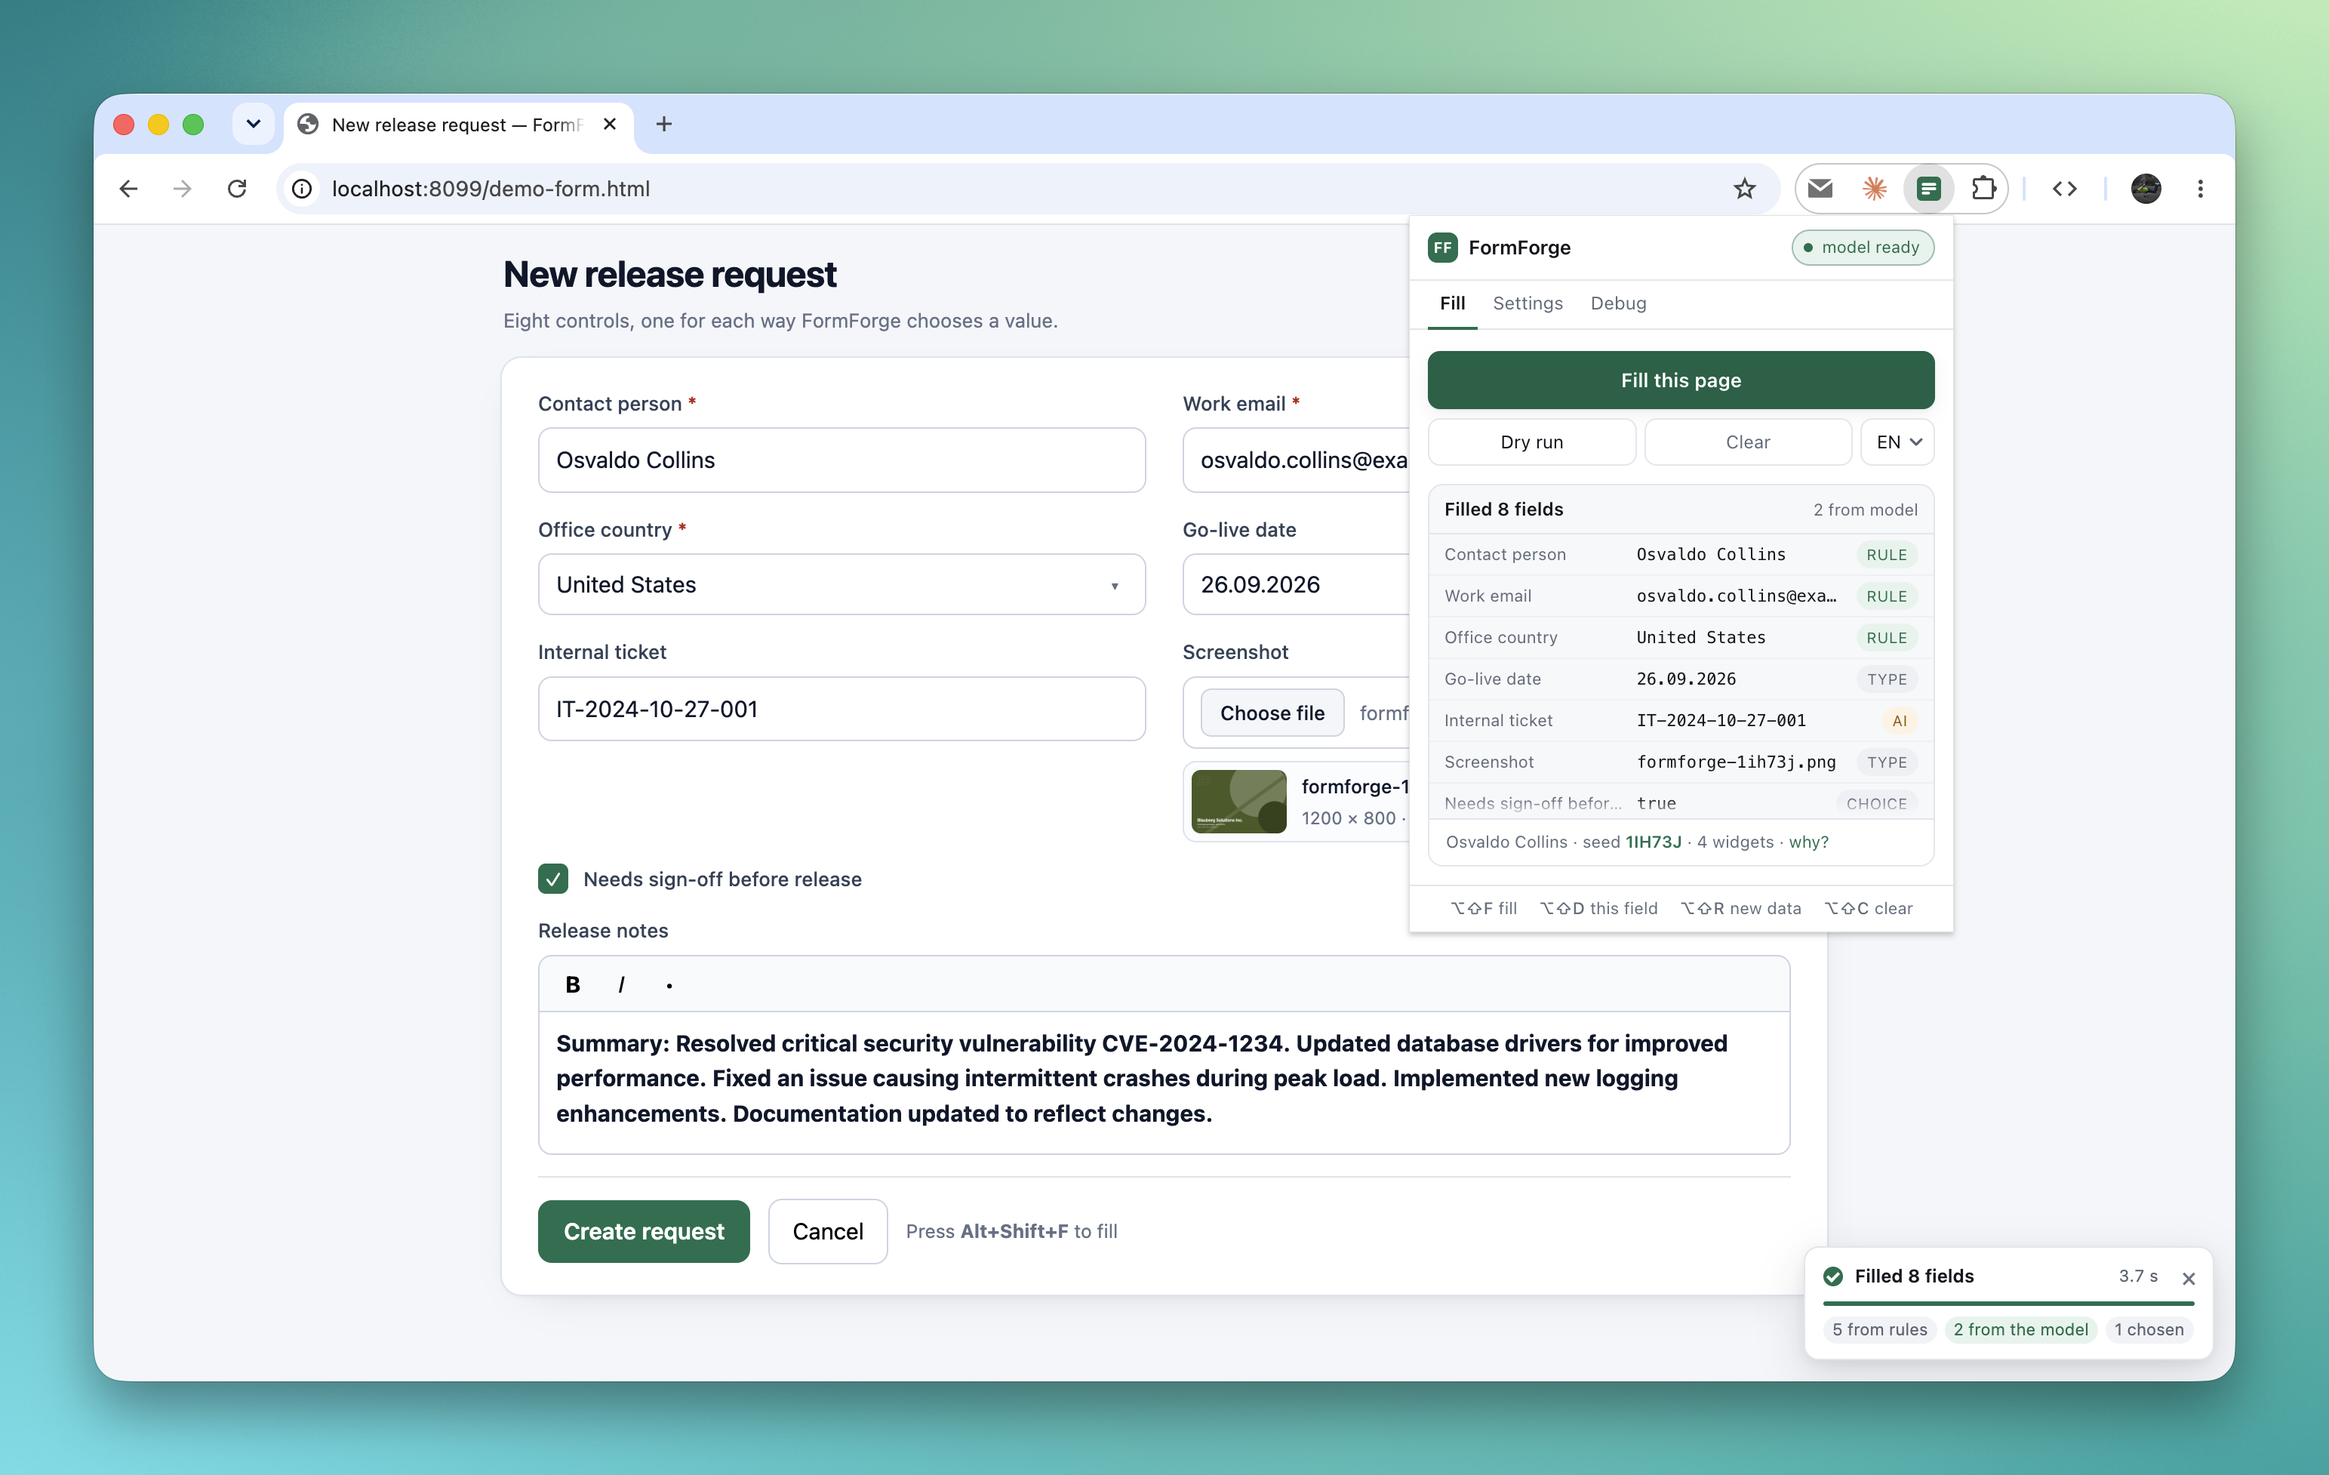
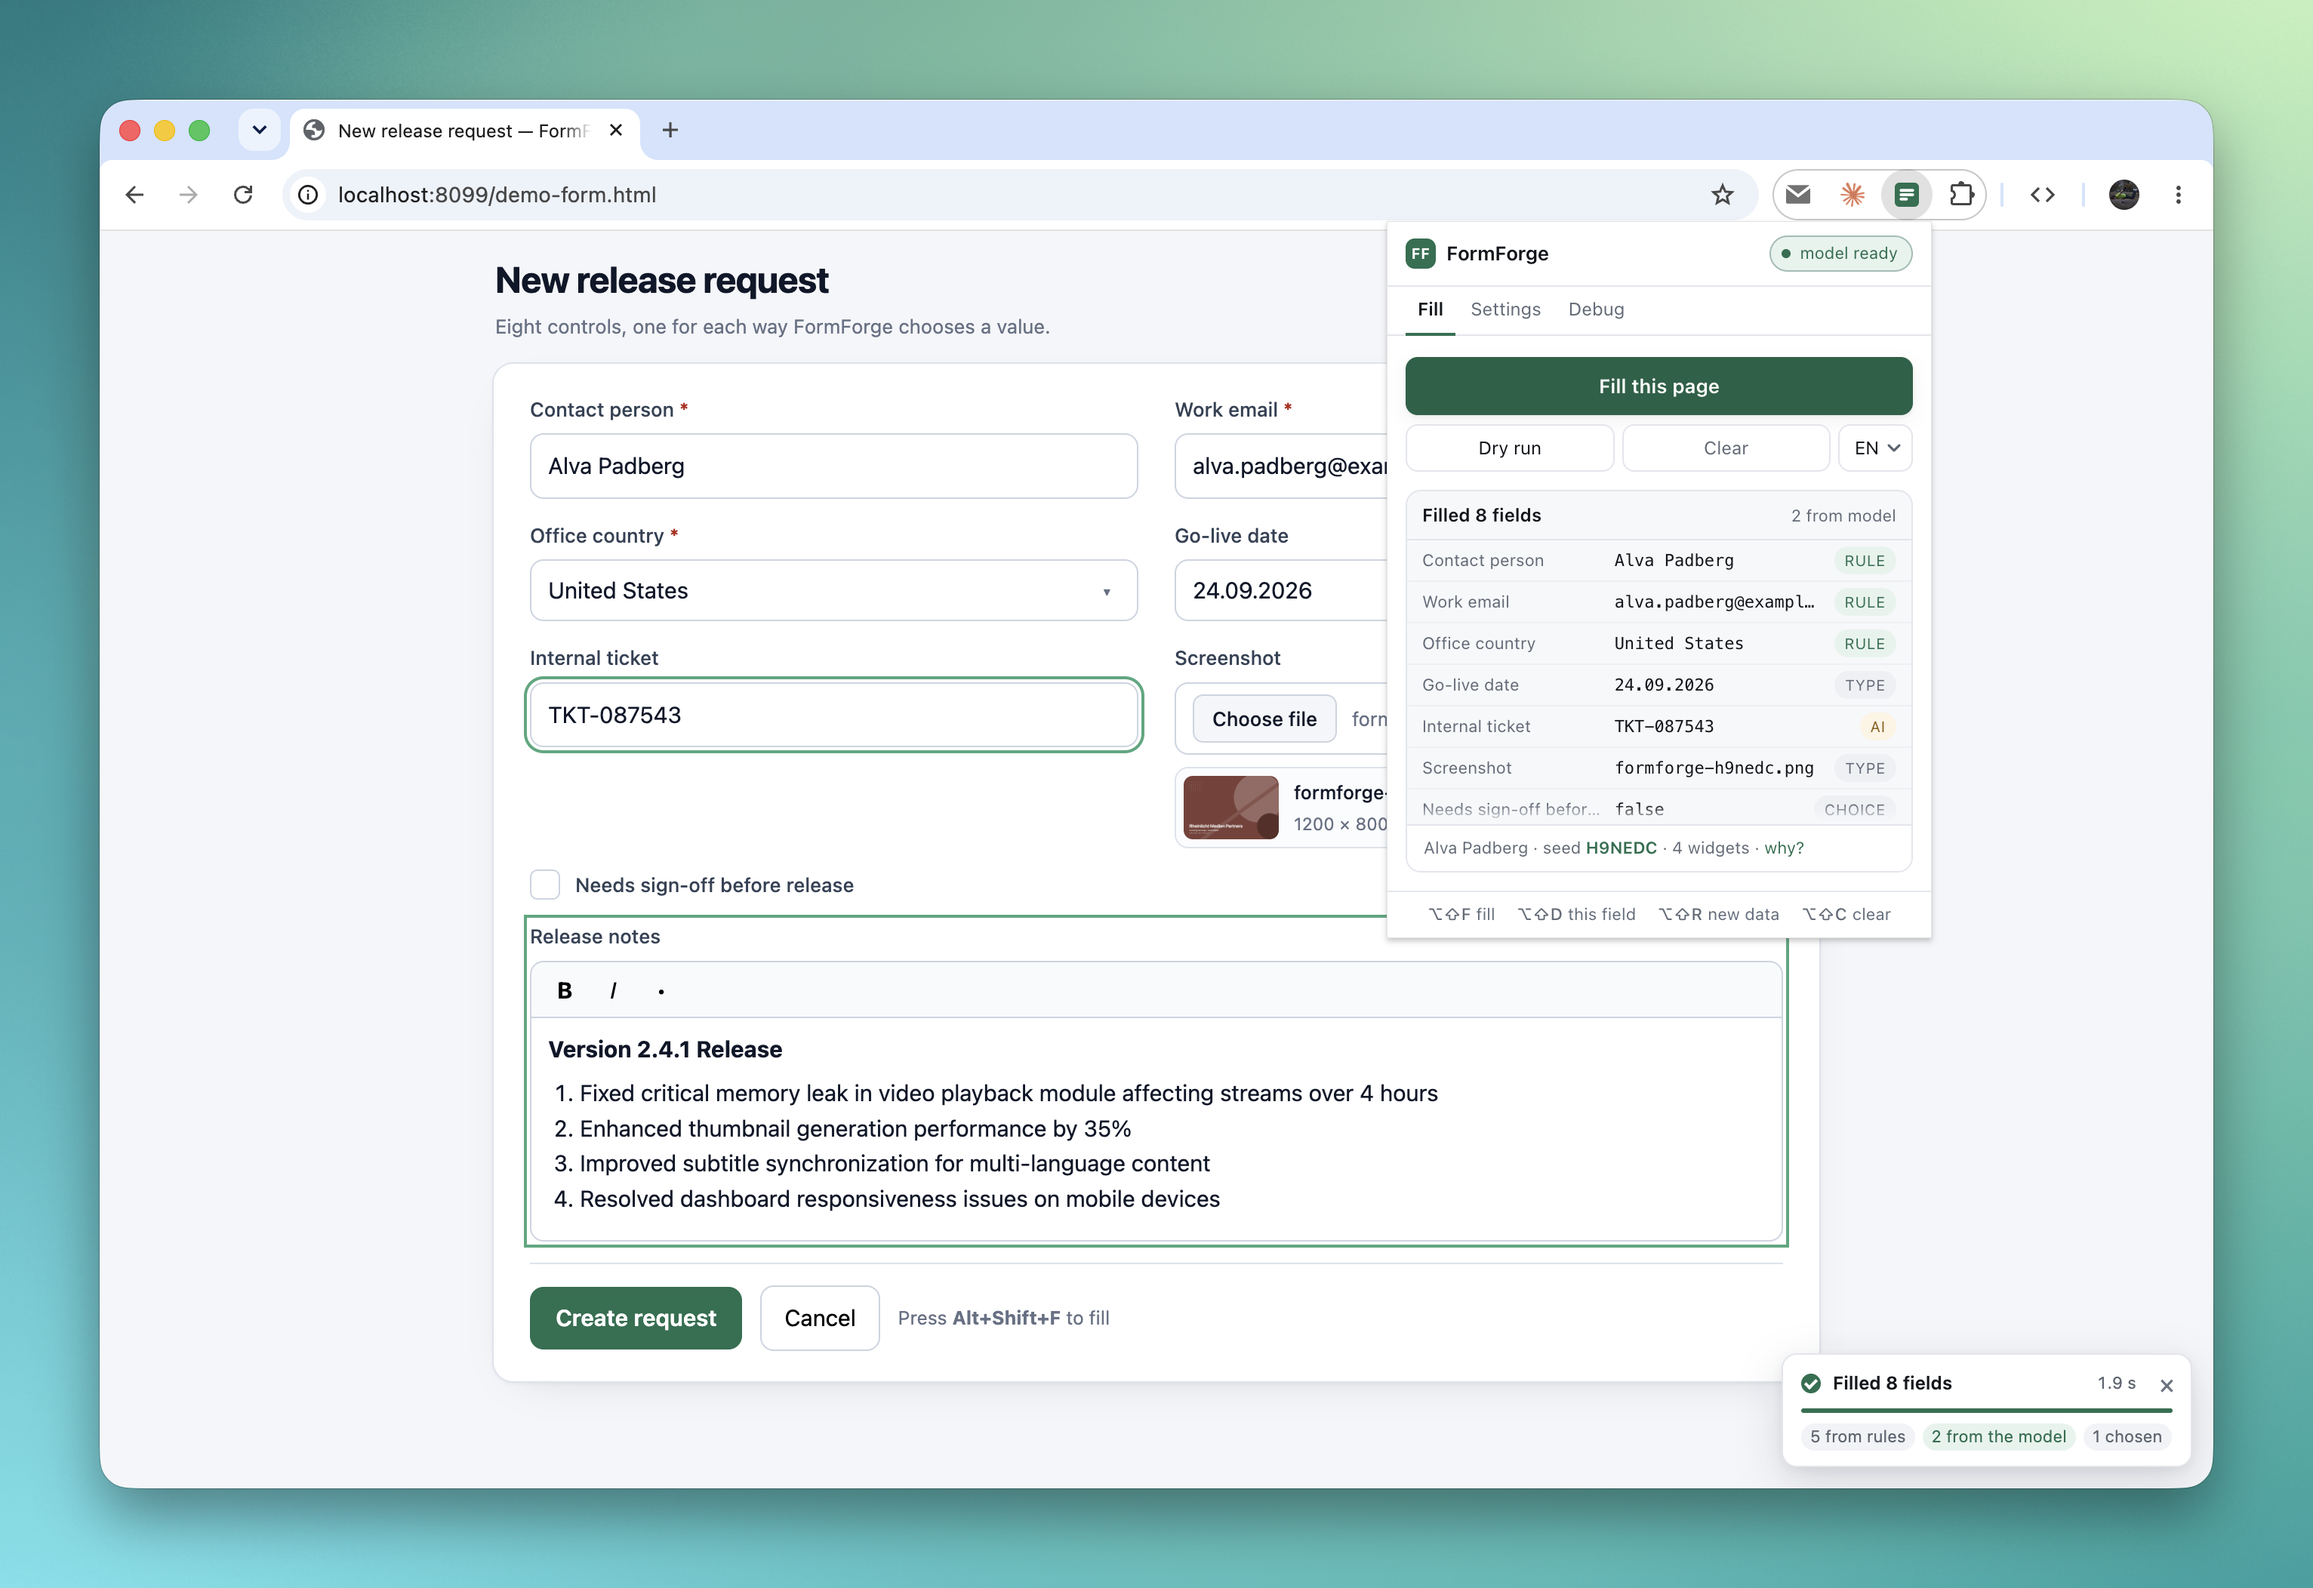
The model's words, the editor's formatting
A rich-text field is on a form so that a tester can see what its editor does
with bold, italic and a list. The model answers it in prose, so the answer
was replacing the one control whose markup was the point of it.

Now its sentences go into the shape the rule builds — a bold lead-in, a
paragraph with the italic note, a list — and short answers are made up from
the same pool of prose the rules draw on. The layout has its own stream,
seeded from the persona and the answer: batches finish in whatever order
they finish, and drawing from the persona's sequence here would make the
rest of the page depend on it.

Asking the model for markup instead was a line in every prompt that the
on-device model ignored. It is gone, and the system prompt is 510 characters
rather than 577.

Two things found on the way:

- Plain words now enter an editor as paragraphs, never at a caret.
  insertText applies the formatting of wherever the selection starts, so an
  answer dropped over content opening with <strong>Note:</strong> came out
  bold, every line of it.
- A bare contenteditable counts as a rich-text field, like a library's
  editor. Only the recognised widgets did, which left the plain ones with no
  stated maximum in the prompt.

Nine checks, across the generator, the widget layer and one fill end to end.

Also carries the demo recording and the README's picture, both retaken.

Changed region(s): [[0.031, 0.0624, 0.9612, 0.9365], [0.217, 0.5307, 0.7751, 0.8741]]

diff --git a/src/generator.js b/src/generator.js
@@ -209,8 +209,11 @@
     }
 
     // A rich-text editor exists to hold formatting, so give it some to exercise.
-    function richHtml(r, langKey) {
-        const s = someSentences(r, langKey, 4);
+    const escapeHtml = (t) => String(t)
+        .replace(/&/g, '&amp;').replace(/</g, '&lt;').replace(/>/g, '&gt;');
+
+    function richHtml(r, langKey, sentences) {
+        const s = (sentences || someSentences(r, langKey, 4)).map(escapeHtml);
         const de = langKey === 'de';
         return [
             `<p><strong>${de ? 'Hinweis' : 'Note'}:</strong> ${s[0]}</p>`,
@@ -220,6 +223,30 @@
             `<li>${s[3] || s[0]}</li>`,
             '</ul>'
         ].join('');
+    }
+
+    /* The model's words in the shape the control is worth testing with. It answers
+     * a rich-text field in prose, and prose exercises nothing the editor does —
+     * the bold, the italic and the list are the point of it. Asking for markup in
+     * the prompt was a line paid for on every batch that the on-device model
+     * ignored anyway, so the layout is built here instead. Short answers are made
+     * up from the same pool the rules draw on, so the page reads of a piece. */
+    function richLayout(text, persona) {
+        const langKey = persona.prose || 'en';
+        /* Its own stream, seeded from the persona and the answer. The persona's
+         * RNG is a sequence, and model answers arrive in whatever order the
+         * batches finish: drawing from it here would make the rest of the fill
+         * depend on that order, and the seed would stop reproducing the page. */
+        const r = mulberry32(seedFromString(`${persona.seed}|rich|${text}`));
+        const given = String(text).replace(/\s+/g, ' ').trim()
+            .split(/(?<=[.!?])\s+/).map(x => x.trim()).filter(Boolean);
+        for (let guard = 0; given.length < 4 && guard < 4; guard++) {
+            const more = someSentences(r, langKey, 4 - given.length);
+            if (!more.length) break;
+            given.push(...more);
+        }
+        while (given.length < 4) given.push(given[given.length - 1] || '');
+        return richHtml(r, langKey, given.slice(0, 4));
     }
 
     // ------------------------------------------------------------ checksums ----
@@ -414,6 +441,7 @@
             sentence: someSentences(r, L.prose, 1)[0],
             paragraph: someSentences(r, L.prose, 2 + Math.floor(r() * 2)).join(' '),
             richText: richHtml(r, L.prose),
+            prose: L.prose,
             _rng: r
         };
     }
@@ -689,6 +717,7 @@
 
     globalThis.FormForgeGen = {
         LOCALES, buildPersona, matchRule, matchRuleDetail, byType, fallbackText, constrain, numberFor,
-        fitMask, looksLikeMask, formatDate, shortenTo, cleanDomain, newSeed, mulberry32, seedFromString
+        fitMask, looksLikeMask, formatDate, shortenTo, cleanDomain, newSeed, mulberry32, seedFromString,
+        richLayout
     };
 })();

diff --git a/src/content.js b/src/content.js
@@ -29,6 +29,9 @@
     const MARK = 'data-formforge-id';
     const SKIP_TYPES = new Set(['hidden', 'submit', 'button', 'reset', 'image']);
     const CHOICE_KINDS = new Set(['choice', 'multichoice', 'inline-choice', 'autocomplete', 'radio', 'radio-group', 'select']);
+    /* A library's editor and a bare contenteditable are the same field to a
+     * tester: both take markup, and both are worth a length the prompt states. */
+    const RICH_KINDS = new Set(['richtext', 'contenteditable']);
     // Their options are in the page, not behind a popup, so they can be read at collect time.
     const INLINE_OPTIONS = new Set(['inline-choice', 'radio-group']);
     const CAPTCHA = /\b(captcha|recaptcha|hcaptcha|turnstile|otp|one-?time|2fa|mfa|verification\s*code|sicherheitscode)\b/i;
@@ -785,7 +788,7 @@
                 placeholder: f.placeholder || undefined,
                 min: f.min != null ? f.min : undefined,
                 max: f.max != null ? f.max : undefined,
-                richText: f.type === 'richtext' || undefined,
+                richText: RICH_KINDS.has(f.type) || undefined,
                 type: f.type,
                 maxLength: f.maxLength,
                 pattern: f.pattern,
@@ -983,7 +986,14 @@
 
         const modelAnswer = (f) => {
             const v = answers[String(f.idx)] ?? answers[f.idx];
-            return v != null && String(v).trim() !== '' ? v : null;
+            if (v == null || String(v).trim() === '') return null;
+            /* Prose into a rich-text field is a worse answer than the one it
+             * replaces: what such a control is worth testing is what its editor
+             * does with bold, italic and a list. The model's words go into the
+             * shape the rule would have built, so the words are its and the
+             * markup is ours. */
+            if (RICH_KINDS.has(f.type) && !/<[a-z]/i.test(String(v))) return G.richLayout(String(v), persona);
+            return v;
         };
         // Why a field ended up on the filler, in the words of whatever went wrong.
         const whyFallback = (f) => f.matchedRule ? 'a rule matched but produced nothing'

diff --git a/src/background.js b/src/background.js
@@ -87,7 +87,6 @@ const SYSTEM_PROMPT = [
     'Match the persona given. Write values in the language the request names, not the labels\' own.',
     'Infer from the label: "Project code" -> "PRJ-2481", not a name.',
     'Obey stated limits: maxLength, min, max, pattern. If options are listed, copy one verbatim.',
-    'HTML (<p>, <strong>, <em>, <ul><li>) only where a field says html.',
     'Never output: test, asdf, lorem ipsum, string, N/A, example, or leading/trailing spaces.'
 ].join('\n');
 
@@ -149,10 +148,11 @@ function buildUserPrompt(persona, pageTitle, fields, context, examples) {
         if (f.maxLength) bits.push(`max${f.maxLength}`);
         if (f.min != null || f.max != null) bits.push(`${f.min ?? ''}..${f.max ?? ''}`);
         if (f.pattern) bits.push(`pattern ${String(f.pattern).slice(0, 30)}`);
-        if (f.richText) bits.push('html');
         /* A field with no declared maximum gets one anyway when it is prose: one
          * richtext answer ran to seven hundred characters, spent the reply's whole
-         * token budget and left the other two fields of its batch unanswered. */
+         * token budget and left the other two fields of its batch unanswered.
+         * Markup is not asked for — the on-device model ignored the line that
+         * asked, and the page lays the answer out itself. */
         if (!f.maxLength && (f.richText || f.type === 'textarea')) bits.push('max300');
         if (f.options && f.options.length) {
             bits.push(`one of: ${f.options.slice(0, 12).map(o => `"${String(o).slice(0, 30)}"`).join(', ')}`);

diff --git a/src/dom.js b/src/dom.js
@@ -205,12 +205,22 @@
      * far side of it: reading in the same tick reported a field as filled that
      * the editor had emptied a moment later. An editor that kept nothing is
      * given the words without the markup, which every editor keeps. */
+    /* Words with no markup of their own, given a shape an editor can hold. A
+     * model answers a rich-text field in prose, and prose inserted at a caret
+     * takes the formatting it lands on: dropped over content that opened with
+     * <strong>, an entire release note came out bold. Paragraphs replace the
+     * selection instead of typing into it, so nothing is inherited. */
+    const asParagraphs = (str) => str.split(/\n{2,}|\r?\n/).map(s => s.trim()).filter(Boolean)
+        .map(s => `<p>${s.replace(/&/g, '&amp;').replace(/</g, '&lt;').replace(/>/g, '&gt;')}</p>`)
+        .join('') || '<p></p>';
+
     async function typeIntoRich(el, text) {
-        const str = String(text);
+        const plain = String(text);
+        const str = /<[a-z]/i.test(plain) ? plain : asParagraphs(plain);
         typeInto(el, str);
         await sleep(0);                                  // the editor's turn, not a wait for a duration
         const held = () => (el.innerText || el.textContent || '').trim();
-        if (held() || !/<[a-z]/i.test(str)) return held() || null;
+        if (held()) return held();
         typeInto(el, plainText(str));
         await sleep(0);
         return held() || null;

diff --git a/ARCHITECTURE.md b/ARCHITECTURE.md
@@ -284,6 +284,15 @@ Each of these was a bug on a real form and has a regression check.
   field back as full. Markup goes in as a **paste**, which is the door an editor converts rather than the one it
   polices, and the readback happens on the far side of the editor's own pass. An editor that kept nothing is given
   the words without the markup. `test/primevue-form.html` models both halves of Quill so the suite can see it.
+- Plain words go into an editor as paragraphs, never at a caret. `insertText` applies the formatting of wherever the
+  selection starts: a model's answer dropped over content that opened with `<strong>Note:</strong>` came out bold,
+  every line of it, and read as a worse answer than the one it replaced.
+- The model answers such a field in prose, and prose exercises nothing the control does. Its sentences are laid into
+  the same skeleton the rule builds — a bold lead-in, a paragraph with the italic note, a list — so the words are
+  the model's and the markup is ours. Asking the model for markup instead was a line in every prompt that the
+  on-device model ignored. The layout draws on its own stream, seeded from the persona and the answer: batches
+  finish in whatever order they finish, and taking from the persona's sequence here would make the rest of the page
+  depend on that order.
 
 **The model**
 
@@ -357,6 +366,8 @@ Each of these was a bug on a real form and has a regression check.
   lives behind a popup is not asked at all.
 - A field the seed decided is reported as a choice, not as a fallback. "The model had no answer for it" against a
   toggle nobody asked it about sends the reader looking in the wrong place.
+- A bare `contenteditable` is a rich-text field like a library's editor: same length cap in the prompt, same layout
+  on the way back. Treating only the recognised widgets as rich text left the plain ones with no stated maximum.
 - A prose field with no declared maximum gets one in the prompt. One richtext answer ran to seven hundred
   characters, spent the reply's token budget and left the other two fields of its batch unanswered.
 - The model copies the shape of the example it is shown. The response schema constrains the decoder but is never
